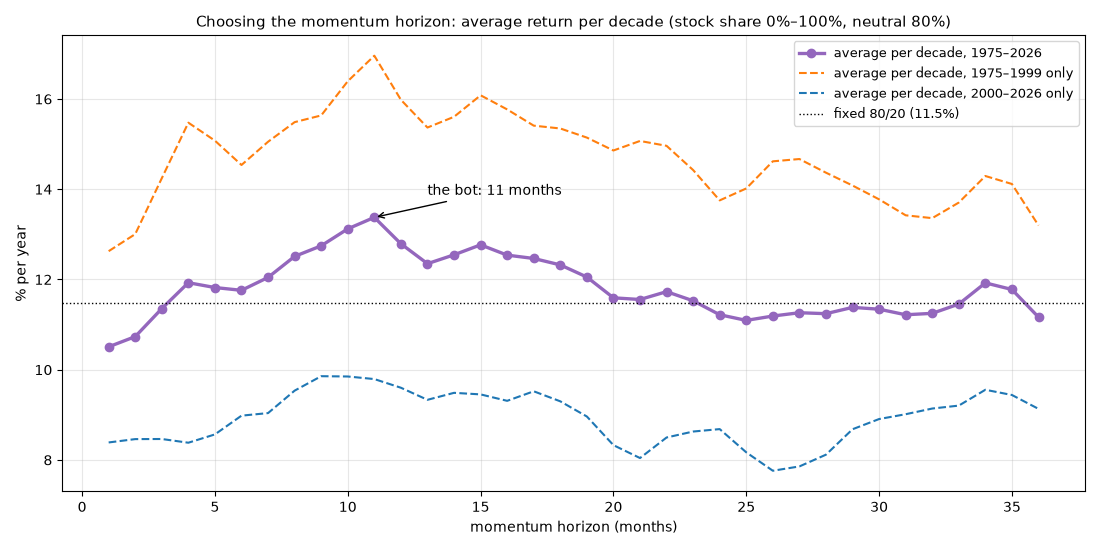
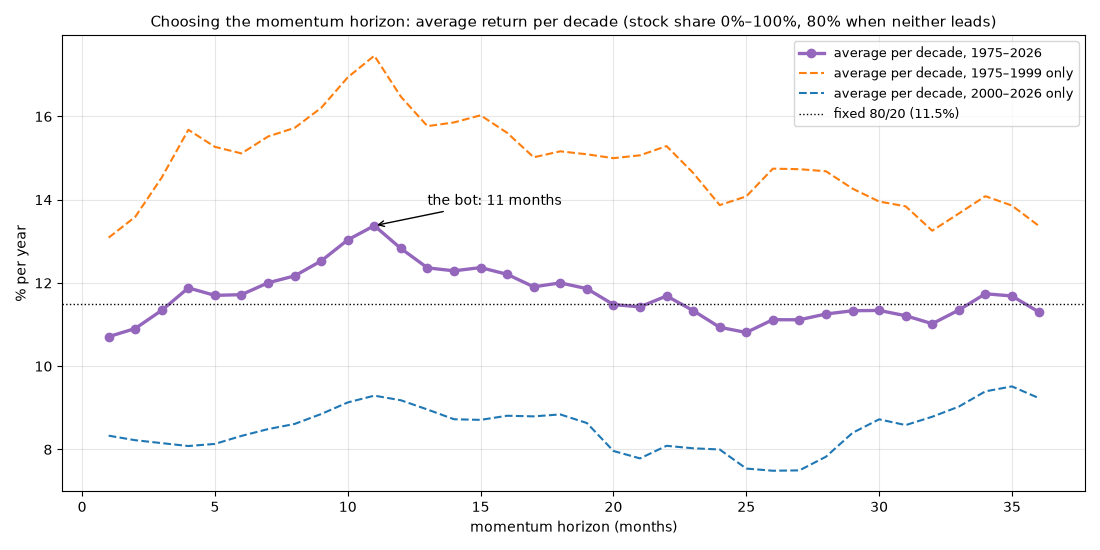
Make the rule one smooth S-curve with an 80/20 centre
- stock share = 50% + 50% · tanh(z + s), s = atanh(2 · centre − 1): smooth from all gold to all
  stocks, 80/20 when neither leads; one `center` setting replaces base/up/down
- same return as the cornered two-part curve, slightly better worst drop and Sharpe, ~10% less trading
- README: new results, and a section on the curve's shape and the centre scan (60–85% all equivalent)

diff --git a/trader/backtest.py b/trader/backtest.py
@@ -314,9 +314,8 @@ def chart_horizon(px, cash, cfg, path, horizons=range(1, 37)) -> pd.DataFrame:
     ax.set_ylabel("% per year")
     ax.grid(alpha=0.3)
     ax.legend(fontsize=9)
-    hi = cfg["bot"]["base"] + cfg["bot"]["up"]
     ax.set_title(f"Choosing the momentum horizon: average return per decade (stock share "
-                 f"{cfg['bot']['base'] - cfg['bot']['down']:.0%}–{hi:.0%}, neutral {cfg['bot']['base']:.0%})", fontsize=11)
+                 f"0%–100%, {cfg['bot']['center']:.0%} when neither leads)", fontsize=11)
     fig.tight_layout()
     fig.savefig(path, dpi=100)
     plt.close(fig)
@@ -330,7 +329,8 @@ def chart_rule(px, cfg, path):
     from .tilt import target_share
 
     bot = cfg["bot"]
-    share = lambda z: target_share(z, bot["base"], bot["up"], bot["down"]) * 100
+    c = bot["center"]
+    share = lambda z: target_share(z, c) * 100
     occurred = np.array([s.z for s in signals(px, bot)])
     z = np.linspace(-3.5, 3.5, 400)
     fig, ax = plt.subplots(figsize=(10, 5.2))
@@ -341,24 +341,23 @@ def chart_rule(px, cfg, path):
     ax.set_zorder(ax2.get_zorder() + 1)
     ax.patch.set_visible(False)
     ax.plot(z, [share(v) for v in z], color=STYLE["the bot's tilt"][0], lw=3)
-    ax.axhline(bot["base"] * 100, color="k", lw=0.8, ls=":")
+    ax.axhline(c * 100, color="k", lw=0.8, ls=":")
     ax.axvline(0, color="k", lw=0.6)
     for v in (-2, -1, 1, 2):
         s = share(v)
         ax.plot(v, s, "o", color=STYLE["the bot's tilt"][0])
         ax.annotate(f"z = {v:+d}: {s:.0f}/{100 - s:.0f}", (v, s), textcoords="offset points",
                     xytext=(8, -14 if v > 0 else 6), fontsize=9)
-    lo, hi = (bot["base"] - bot["down"]) * 100, (bot["base"] + bot["up"]) * 100
-    ax.text(-3.35, lo + 0.45 * (bot["base"] * 100 - lo), f"gold has led\n→ down to {lo:.0f}/{100 - lo:.0f}", fontsize=10, color="#a0812c")
-    ax.text(1.9, bot["base"] * 100 - 0.3 * (bot["base"] * 100 - lo), f"stocks have led\n→ up to {hi:.0f}/{100 - hi:.0f}",
+    ax.text(-3.35, 36, "gold has led\n→ toward 0/100", fontsize=10, color="#a0812c")
+    ax.text(1.9, 56, "stocks have led\n→ toward 100/0",
             fontsize=10, color="#2c5ba0")
-    ax.text(0.08, bot["base"] * 100 - 4, f"no lead: {bot['base']:.0%}/{1 - bot['base']:.0%}", fontsize=9, color="#333")
+    ax.text(0.08, c * 100 - 4, f"no lead: {c:.0%}/{1 - c:.0%}", fontsize=9, color="#333")
     ax.set_xlim(-3.5, 3.5)
-    ax.set_ylim(lo - 3, hi + 3)
+    ax.set_ylim(-3, 103)
     ax.set_xlabel(f"z = stocks' {bot['lookback']}-month lead over gold ÷ its usual size")
     ax.set_ylabel("stock share (%), the rest in gold")
-    ax.set_title(f"The rule: a smooth tilt between {lo:.0f}/{100 - lo:.0f} and {hi:.0f}/{100 - hi:.0f}, "
-                 f"centred on {bot['base']:.0%}/{1 - bot['base']:.0%}", fontsize=11)
+    ax.set_title(f"The rule: one smooth curve from all gold to all stocks, at {c:.0%}/{1 - c:.0%} when neither leads",
+                 fontsize=11)
     ax.grid(alpha=0.3)
     fig.tight_layout()
     fig.savefig(path, dpi=110)

diff --git a/trader/tilt.py b/trader/tilt.py
@@ -3,8 +3,8 @@
 Once a month, from month-end prices (defaults in config.yaml):
     lead = log return of stocks − log return of gold over the last `lookback` months (11)
     z    = lead / its usual size (std of monthly return differences over 36 months × √12)
-    stock share = 80% + 20% × tanh(z) when stocks lead, 80% + 80% × tanh(z) when gold leads
-so the mix moves smoothly between 100% stocks and 100% gold, and sits at 80/20 when neither leads.
+    stock share = 50% + 50% × tanh(z + s), with s = atanh(2 × centre − 1)
+an S-curve from 100% gold to 100% stocks, shifted so that it gives `centre` (80%) when neither leads.
 Trades happen only when the stock share is more than `band` away from its target.
 """
 
@@ -29,8 +29,9 @@ def month_end_closes(daily: pd.DataFrame, today: pd.Timestamp) -> pd.DataFrame:
     return closes[closes.index < today.to_period("M").to_timestamp()]
 
 
-def target_share(z: float, base: float = 0.8, up: float = 0.2, down: float = 0.8) -> float:
-    return float(base + (up if z > 0 else down) * np.tanh(z))
+def target_share(z: float, center: float = 0.8) -> float:
+    """Stock share for a lead of size z: smooth from 0% to 100%, and `center` when z = 0."""
+    return float(0.5 + 0.5 * np.tanh(z + np.arctanh(2 * center - 1)))
 
 
 def signals(closes: pd.DataFrame, cfg: dict) -> list[Signal]:
@@ -43,7 +44,7 @@ def signals(closes: pd.DataFrame, cfg: dict) -> list[Signal]:
     out = []
     for month in z.dropna().index:
         out.append(Signal(month, float(np.expm1(lead.loc[month, "stocks"])), float(np.expm1(lead.loc[month, "gold"])),
-                          float(z[month]), target_share(z[month], cfg["base"], cfg["up"], cfg["down"])))
+                          float(z[month]), target_share(z[month], cfg["center"])))
     return out
 
 

diff --git a/tests/test_tilt.py b/tests/test_tilt.py
@@ -4,7 +4,7 @@ import pytest
 
 from trader.tilt import month_end_closes, plan, signals, target_share
 
-CFG = {"base": 0.8, "up": 0.2, "down": 0.3, "lookback": 12, "vol_months": 36}
+CFG = {"center": 0.8, "lookback": 12, "vol_months": 36}
 
 
 def monthly(stock_drift, gold_drift, months=60, seed=0):
@@ -21,6 +21,9 @@ def test_target_share_moves_smoothly_between_all_gold_and_all_stocks():
     zs = np.linspace(-4, 4, 81)
     shares = [target_share(z) for z in zs]
     assert all(0.0 <= s <= 1.0 for s in shares) and np.all(np.diff(shares) > 0)
+    slopes = np.diff(shares)
+    assert np.abs(np.diff(slopes)).max() < 0.01                 # smooth: no corner anywhere
+    assert target_share(0.0, center=0.6) == pytest.approx(0.6)
 
 
 def test_signal_follows_the_leader_and_matches_the_backtest_formula():
@@ -32,7 +35,7 @@ def test_signal_follows_the_leader_and_matches_the_backtest_formula():
     lr = np.log(closes).diff()
     z = (np.log(closes / closes.shift(12))["stocks"] - np.log(closes / closes.shift(12))["gold"]) / (
         (lr["stocks"] - lr["gold"]).rolling(36).std() * np.sqrt(12))
-    expected = 0.8 + np.where(z > 0, 0.2, 0.3) * np.tanh(z)
+    expected = 0.5 + 0.5 * np.tanh(z + np.arctanh(2 * 0.8 - 1))
     got = pd.Series({s.month: s.stock_share for s in signals(closes, CFG)})
     np.testing.assert_allclose(got.to_numpy(), pd.Series(expected, index=closes.index).dropna().to_numpy())
 

diff --git a/tests/test_backtest.py b/tests/test_backtest.py
@@ -4,7 +4,7 @@ import pytest
 
 from trader.backtest import simulate, tilt_shares
 
-BOT = {"base": 0.8, "up": 0.2, "down": 0.8, "lookback": 11, "vol_months": 36}
+BOT = {"center": 0.8, "lookback": 11, "vol_months": 36}
 
 
 def prices(months=80, seed=0):

diff --git a/README.md b/README.md
@@ -20,14 +20,14 @@ Monthly backtest, March 1975 – September 2026, in USD, after 0.1% per trade:
 |---|---:|---:|---:|---:|
 | 100% world stocks | +11.2% | −52% | −1.2% / yr | 0.51 |
 | Fixed 80% stocks / 20% gold | +10.7% | −41% | +1.9% / yr | 0.55 |
-| The bot's *average* mix (69/31), held fixed | +10.3% | −35% | +3.5% / yr | 0.53 |
-| **The bot** | **+12.0%** | **−25%** | **+4.0% / yr** | **0.55** |
+| The bot's *average* mix (74/26), held fixed | +10.5% | −38% | +2.6% / yr | 0.54 |
+| **The bot** | **+12.1%** | **−24%** | **+4.4% / yr** | **0.56** |
 
-It beats 100% stocks by about 0.8 points a year, with half the worst crash, and its worst decade
+It beats 100% stocks by about 0.9 points a year, with half the worst crash, and its worst decade
 still made money. The edge comes from long crises, when gold kept rising for months (the late
-1970s, 2000–2003, 2008). In strong bull markets it lags stocks by 2.5–4.5 points a year.
+1970s, 2000–2003, 2008). In strong bull markets it lags stocks by 2–3 points a year.
 
-The third row isolates the timing. Holding the bot's average split all the time earns 1.7 points a
+The third row isolates the timing. Holding the bot's average split all the time earns 1.6 points a
 year less. The gain comes from *when* it holds gold, not from how much.
 
 ## How it works
@@ -56,7 +56,7 @@ $$\text{lead}_t = \ln\frac{S_t}{S_{t-11}} - \ln\frac{G_t}{G_{t-11}}$$
 
 $$z_t = \frac{\text{lead}_t}{\sqrt{12}\cdot\sigma_{36}\left(\Delta \ln S - \Delta \ln G\right)}$$
 
-$$\text{stock share}_t = \begin{cases} 80\\% + 20\\% \cdot \tanh z_t & \text{if } z_t > 0 \text{ (stocks lead)} \\\\ 80\\% + 80\\% \cdot \tanh z_t & \text{if } z_t \le 0 \text{ (gold leads)} \end{cases}$$
+$$\text{stock share}_t = 50\\% + 50\\% \cdot \tanh\left(z_t + s\right), \qquad s = \operatorname{atanh}(2 \cdot 80\\% - 1) \approx 0.69$$
 
 The rest is gold.
 
@@ -64,12 +64,12 @@ The rest is gold.
 - **z:** that lead divided by its usual size, measured by how much the monthly difference between
   the two has swung over the last 3 years. A 20-point lead means little in a wild year and a lot in a
   calm one, so this makes the signal comparable across decades.
-- **tanh:** turns z into a share smoothly. A small lead barely moves the mix, and a strong one
-  saturates at 100% stocks or 100% gold. An on/off switch gave similar crash protection but traded
-  much more, flipping on tiny leads.
-- **80/20 centre, room all the way to gold:** stocks have the higher long-run return, so the neutral
-  mix leans to stocks. Going all the way to gold when gold clearly leads is where the crash
-  protection comes from.
+- **tanh:** one smooth S-curve from all gold to all stocks. A small lead barely moves the mix, and a
+  strong one saturates: z = +1 gives 97% stocks, z = −1 gives 35%, z = −2 gives 7%. An on/off
+  switch gave similar crash protection but traded much more, flipping on tiny leads.
+- **s, the 80/20 centre:** shifts the curve so that with no lead it holds 80% stocks. Stocks have the
+  higher long-run return, so the neutral mix leans to stocks. Going all the way to gold when gold
+  clearly leads is where the crash protection comes from.
 
 ![How z maps to the stock share, and how often each z occurred](docs/rule.png)
 
@@ -87,9 +87,9 @@ flowchart LR
 
 ## Choosing the settings
 
-Only two things were tuned on the data: the **momentum horizon** and the **stock limits**. Everything
-else uses standard or neutral values (an 80/20 centre, a 3-year window, the plain tanh curve, a
-5-point band).
+Three things were checked on the data: the **momentum horizon**, the **stock limits**, and the
+**shape and centre** of the curve. Everything else uses standard values (a 3-year window, a 5-point
+band).
 
 ### The momentum horizon
 
@@ -101,26 +101,27 @@ counts equally:
 
 | horizon | per decade | 1975–1999 only | 2000–2026 only | worst drop | traded per year |
 |---|---:|---:|---:|---:|---:|
-| 3 months | +11.4% | +14.2% | +8.5% | −36% | 249% |
-| 6 months | +11.8% | +14.5% | +9.0% | −39% | 201% |
-| 9 months | +12.7% | +15.6% | +9.9% | −25% | 159% |
-| **11 months** | **+13.4%** | **+17.0%** | +9.8% | −25% | 141% |
-| 12 months | +12.8% | +16.0% | +9.6% | −26% | 137% |
-| 15 months | +12.8% | +16.1% | +9.5% | −31% | 129% |
-| 18 months | +12.3% | +15.3% | +9.3% | −36% | 126% |
-| 24 months | +11.2% | +13.8% | +8.7% | −44% | 97% |
-| 36 months | +11.2% | +13.2% | +9.1% | −49% | 69% |
+| 3 months | +11.3% | +14.5% | +8.2% | −38% | 198% |
+| 6 months | +11.7% | +15.1% | +8.3% | −40% | 169% |
+| 9 months | +12.5% | +16.2% | +8.9% | −28% | 147% |
+| **11 months** | **+13.4%** | **+17.5%** | +9.3% | −24% | 126% |
+| 12 months | +12.8% | +16.5% | +9.2% | −24% | 122% |
+| 15 months | +12.4% | +16.0% | +8.7% | −30% | 122% |
+| 18 months | +12.0% | +15.2% | +8.8% | −35% | 120% |
+| 24 months | +10.9% | +13.9% | +8.0% | −41% | 98% |
+| 36 months | +11.3% | +13.4% | +9.2% | −47% | 68% |
 | *fixed 80/20* | *+11.5%* | | | *−41%* | *5%* |
 
-- **Too short (1–6 months):** it reacts to noise. It flips back and forth, trades 2–3 times the
+- **Too short (1–6 months):** it reacts to noise. It flips back and forth, trades up to twice the
   portfolio a year, and does no better than a fixed 80/20.
 - **Too long (20+ months):** it reacts too late. It's still in stocks when a crash starts, so the
-  worst drop grows to −44% to −50%.
+  worst drop grows to −41% to −47%.
 - **Sweet spot, about 9–12 months:** long enough to ignore noise, short enough to move to gold early
   in a long crisis. 11 months scored best.
-- **Both halves agree.** Chosen on 1975–1999 alone, the best horizon would also have been 11 months,
-  and it ranked 3rd of 36 on 2000–2026. Chosen on 2000–2026, it would have been 9 months, ranked
-  6th on 1975–1999. The two dashed lines peak in the same zone.
+- **The halves mostly agree.** Chosen on 1975–1999 alone, the best horizon would also have been
+  11 months, and it ranked 3rd of 36 on 2000–2026. That second half is fairly flat on its own (7.5–
+  9.5% per decade for every horizon). Its nominal best, 35 months, is only 0.2 points ahead of
+  11 months, and 11 is the peak of its 8–15-month hump.
 - **11 vs 12 months is within noise:** the curve wobbles by about 0.4 points from one month to the
   next. The finding is "about 9 to 12 months", which includes the 12 months common in the
   literature.
@@ -129,7 +130,8 @@ Run `uv run trader backtest` to redraw this chart (`results/horizon.png`) with t
 
 ### The stock limits
 
-A search over the upper limit (80–100% stocks), the lower limit (0–80%) and the horizon found that
+A search over the upper limit (80–100% stocks), the lower limit (0–80%) and the horizon (with the
+earlier two-part curve, see below) found that
 the **lower limit matters most**. The lower it was, the better, at every horizon from 9 to 15
 months. At 11 months, going down to 0% stocks (all gold) when gold clearly leads beat a 50% floor
 by 0.7 points per decade (+13.4% vs +12.7%), with a smaller worst drop (−25% vs −30%). Settings
@@ -138,6 +140,29 @@ chosen on one half of the history also did well on the other.
 The catch: this gain comes from the two gold booms (late 1970s: +25.8% a year vs +20.6% with a 50%
 floor; 2000s: +10.5% vs +6.9%). It costs 0.7–1.6 points a year in every other decade, and more than
 doubles the trading (141% of the portfolio a year vs 64%).
+
+### The shape of the curve and its centre
+
+The first version joined two tanh halves at 80/20: 20 points of room toward stocks and 80 toward
+gold. That made the curve four times steeper on the gold side, with a corner at 80/20. The
+current version is one smooth S-curve from 0% to 100%, shifted so it passes through the chosen
+centre when neither leads. Scanning that centre (11 months):
+
+| curve | per decade | 1975–1999 only | 2000–2026 only | worst drop | traded per year |
+|---|---:|---:|---:|---:|---:|
+| two halves with a corner, 80/20 | +13.38% | +17.0% | +9.8% | −25% | 141% |
+| smooth, centre 50% | +13.22% | +15.8% | +10.6% | −28% | 160% |
+| smooth, centre 60% | +13.33% | +16.5% | +10.2% | −26% | 154% |
+| smooth, centre 70% | +13.38% | +16.9% | +9.8% | −24% | 142% |
+| **smooth, centre 80%** | **+13.38%** | +17.5% | +9.3% | **−24%** | **126%** |
+| smooth, centre 90% | +13.13% | +17.7% | +8.6% | −28% | 104% |
+
+- **The centre barely matters:** anywhere from 60% to 85% gives the same return per decade, within
+  0.05 points. Only the extremes are worse.
+- **The halves disagree on it:** a higher centre helped in 1975–1999, when stocks mostly led, and a
+  lower one in 2000–2026. Choosing it is a bet on which asset will lead, so the data can't settle it.
+- **80% was chosen for practical reasons:** the same return as the cornered curve, a slightly better
+  worst drop and Sharpe ratio, about 10% less trading, and one setting instead of three.
 
 ### Why nothing else was tuned
 
@@ -150,7 +175,7 @@ decade). But they didn't hold up:
   random order so no momentum can exist, still "found" settings beating 80/20 by about 1 point a
   year, and up to 4.5 points. A big search always finds a winner.
 
-The horizon and limits passed the halves test. Their gain over 80/20 (+2.3 points per decade) is
+The horizon and limits held up far better on the halves test. Their gain over 80/20 (+2.3 points per decade) is
 also well above what luck produced in the same search on shuffled histories (+0.75 on average),
 though one shuffled history in twenty did better. The original 12-month rule, set before any tuning,
 beat 80/20 by more than in any of the 20 shuffled histories, which is evidence that the momentum
@@ -166,12 +191,13 @@ Return per year by decade:
 |---|---:|---:|---:|---:|---:|---:|
 | 100% world stocks | +14.8% | **+20.8%** | **+11.3%** | +1.7% | **+8.9%** | +12.8% |
 | Fixed 80/20 | +17.1% | +17.0% | +8.5% | +4.8% | +7.8% | **+13.8%** |
-| **The bot** | **+25.8%** | +16.5% | +8.7% | **+10.5%** | +6.0% | +12.8% |
+| **The bot** | **+25.1%** | +17.8% | +9.5% | **+8.8%** | +6.3% | +12.8% |
 
 **Does the start date matter?** Starting from every month since 1975:
-- **Until today:** the bot beat a fixed 80/20 from 73% of start months, and 100% stocks from 70%.
-- **Over the following 10 years:** it beat 100% stocks about half the time (53%).
-- **Worst 10-year stretch:** +4.1% a year for the bot, against −1.2% for 100% stocks.
+- **Until today:** the bot beat 100% stocks from 72% of start months, and a fixed 80/20 from 68%.
+- **Over the following 10 years:** it beat 100% stocks about half the time (52%), and 80/20 62% of
+  the time.
+- **Worst 10-year stretch:** +4.5% a year for the bot, against −1.2% for 100% stocks.
 
 ![Results from every start month](docs/start_dates.png)
 
@@ -206,8 +232,8 @@ uv run trader rebalance --execute    # places them in the paper account
 ```
 $ uv run trader signal
 ┃ month end ┃ ACWI 11 mo ┃ GLD 11 mo ┃ z     ┃ target ACWI ┃ target GLDM ┃
-│ 2026-09   │ +14.0%     │ +3.5%     │ +0.47 │ 89%         │ 11%         │
-Target for this month (from prices up to 2026-09-30): 88.8% ACWI, 11.2% GLDM.
+│ 2026-09   │ +14.0%     │ +3.5%     │ +0.47 │ 91%         │ 9%          │
+Target for this month (from prices up to 2026-09-30): 91.2% ACWI, 8.8% GLDM.
 ```
 
 **What `rebalance` does:**
